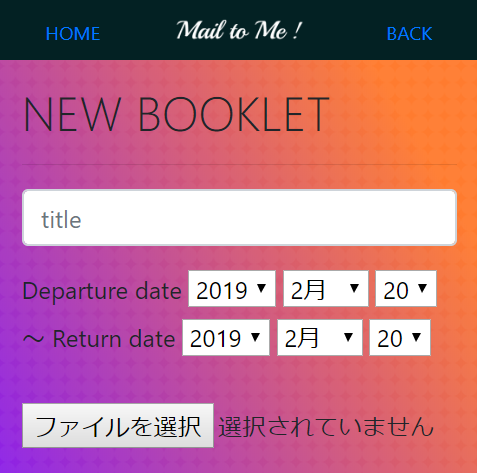
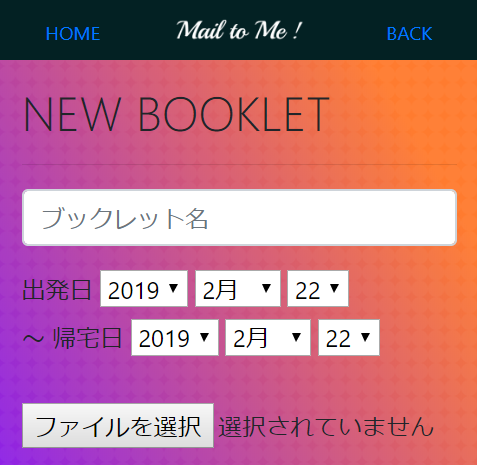
画像を差し替え

diff --git a/README.md b/README.md
@@ -9,7 +9,7 @@
 &nbsp; &nbsp; &nbsp;体験にフォーカスしてもらうために、旅を快適にする機能を追加していきます。  
 &nbsp; &nbsp; &nbsp;スマートフォンとPCでの表示に対応しています。  
 
-&nbsp; &nbsp; &nbsp;<img src="https://user-images.githubusercontent.com/42922656/52122193-794aac00-2665-11e9-81d7-7a55053dfb02.JPG" width="200">
+&nbsp; &nbsp; &nbsp;<img src="https://user-images.githubusercontent.com/42922656/53182246-71ff3880-363c-11e9-9b3d-eaf7112fc384.png" width="200">
 &nbsp; &nbsp;<img src="https://user-images.githubusercontent.com/42922656/53061194-64449880-3500-11e9-905e-b7baf4220f41.png" height="355">
 
 ## コンセプト
